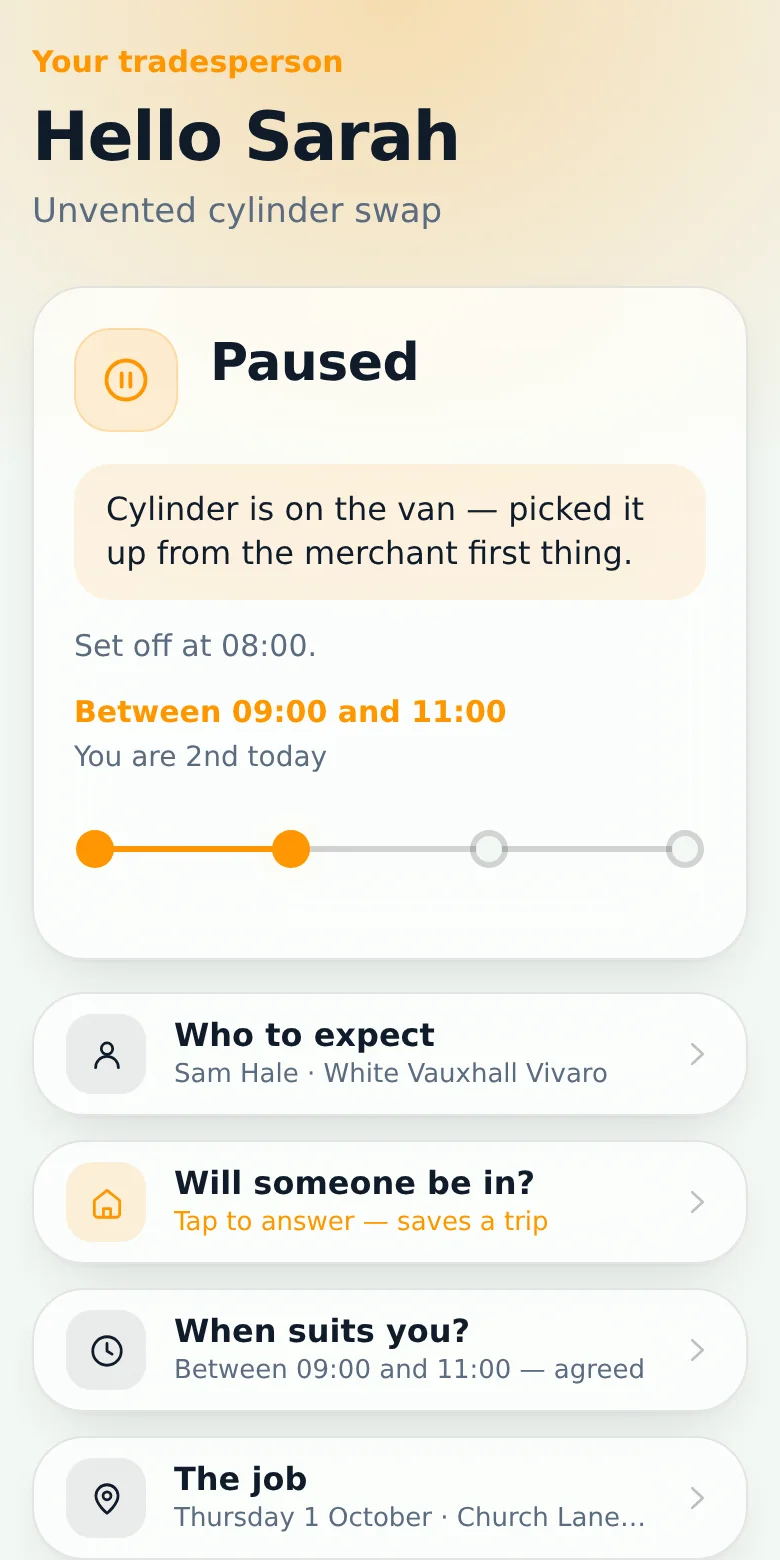
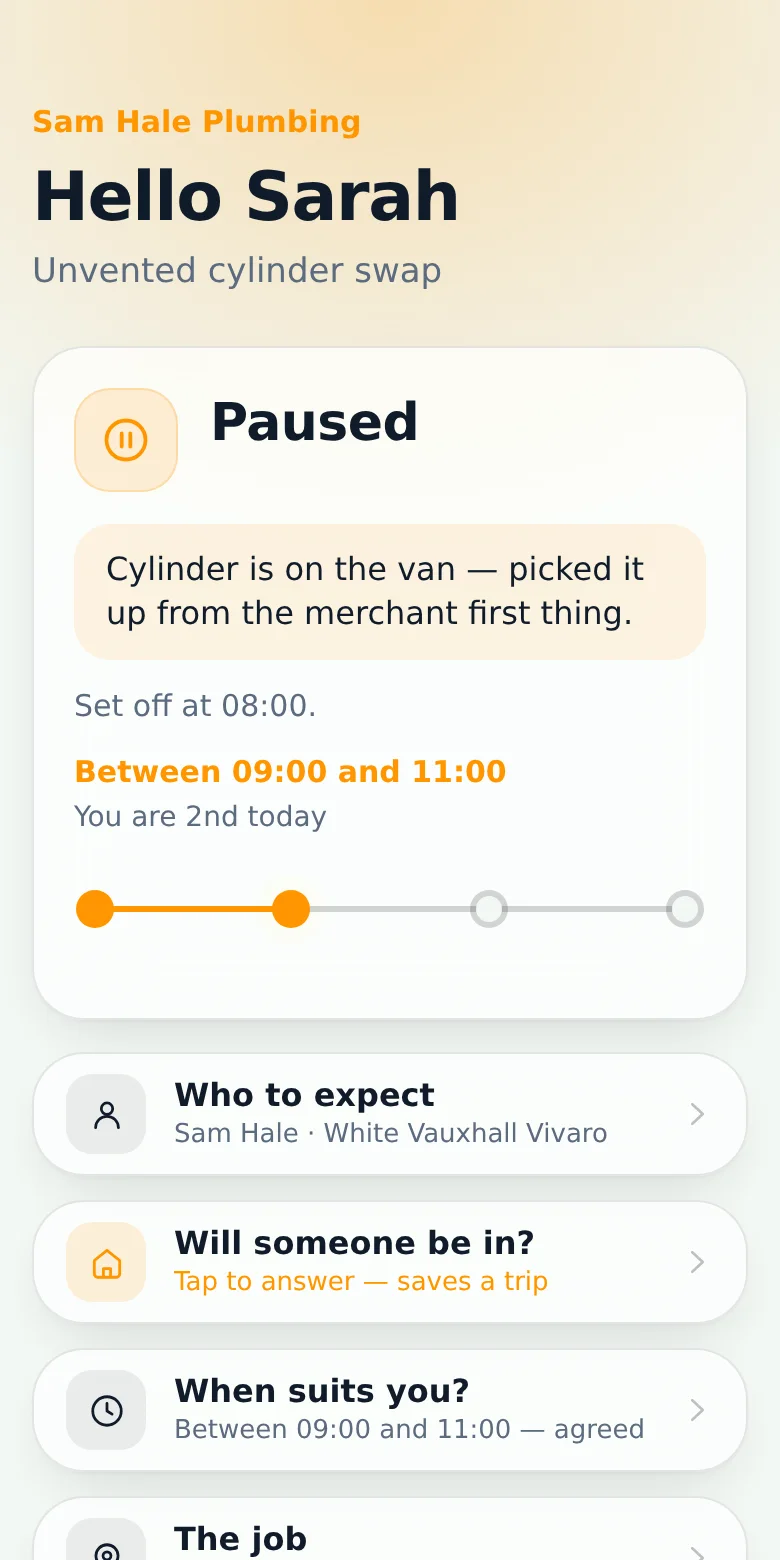
v1.13.4: the card comes out of the wallet, and the story is told like a store listing
Will: the main image was "too much a 2D image — it needs to be a three
dimensional card popping out of other cards in the Apple Wallet", and the
process images should be "the kind you would see in the App Store".

components/WalletHero.jsx is the same PassCard laid in real CSS 3D: the
stack recedes (coffee and rail cards peeking above, gym and library
below, brighter than the dashboard's so they survive a black ground), the
pass is pulled 96px towards the reader and turned in the hand, a sheet of
light across its face, a floor shadow under the stack. StackView, the flat
honest one, is untouched and the dashboard keeps it.

components/Device.jsx draws a phone properly — bezel, island, a 9:41
status bar on a frosted strip — and tilts it the way store artwork does.
lib/posters.js + /preview/posters render six 1242×2688 frames from the
real captures: sent by text, four words, will someone be in, find the
door, your five buttons, in their wallet. Captured into public/home/
store-N.webp, so they are also the artwork for any listing later.

Homepage: tilted phone and the 3D wallet under the headline; "How it
goes" is the six frames in a snap carousel. Captures now get 50px of head
room so the status bar sits on the page's own top padding; two new
captures (presence open, find-you open) — remember Next only serves what
was in public/ at build time.

Claude-Session: https://claude.ai/code/session_01KF9r2LXPvcJ1ugbhNoFDpJ

Changed region(s): [[0.0308, 0.0308, 0.9231, 1.0], [0.1231, 0.9538, 0.1538, 1.0], [0.8, 0.1846, 0.8308, 0.2154]]

diff --git a/src/app/page.js b/src/app/page.js
@@ -3,8 +3,10 @@ import Mark from '@/components/Mark'
 import Waitlist from './Waitlist'
 import { STAGE_ORDER, STAGES, stageOf } from '@/lib/trade-status'
 import { StageIcon, TickIcon, ChevronIcon } from '@/components/icons'
-import Phone from '@/components/Phone'
-import { StackView } from '@/components/PassCard'
+import Image from 'next/image'
+import Device from '@/components/Device'
+import WalletHero from '@/components/WalletHero'
+import { POSTERS } from '@/lib/posters'
 
 /**
  * The front door — the only page here a stranger is meant to find.
@@ -45,13 +47,6 @@ const DEMO = {
   jobAddress: 'Church Lane, Burbage SN8', arrivingAt: '2026-10-01T07:00:00.000Z',
 }
 
-/* The same page, four times, as the day goes. */
-const DAY = [
-  { src: '/home/customer-booked.webp',    alt: 'The customer page the night before: Booked in', caption: 'The night before' },
-  { src: '/home/customer-on-my-way.webp', alt: 'The customer page when the van sets off: On my way, set off at 08:00, between 09:00 and 11:00, you are 2nd today', caption: 'Van sets off' },
-  { src: '/home/customer-on-site.webp',   alt: 'The customer page on arrival: On site', caption: 'At the door' },
-  { src: '/home/customer-done.webp',      alt: 'The customer page at the end: Job done', caption: 'Done' },
-]
 
 export default function Home() {
   return (
@@ -98,15 +93,17 @@ export default function Home() {
             product is a page nobody finishes; the two pictures below are the
             customer's phone and the customer's wallet, and they do the rest. */}
         <section className="mt-12 grid items-start gap-8 sm:grid-cols-2">
-          <Phone src="/home/customer-on-my-way.webp" priority className="mx-auto w-[240px] sm:w-[250px]"
-                 alt="The page your customer opens from the text: Hello Sarah, On my way, set off at 08:00, between 09:00 and 11:00"
-                 caption="What they open from the text. No app, no login." />
-          <figure className="mx-auto w-full max-w-[320px]">
-            <div className="rounded-[30px] bg-black px-5 pb-6 pt-7">
-              <StackView tracker={DEMO} logo={null} tradeName="Sam Hale Plumbing" />
-            </div>
+          <figure className="mx-auto">
+            <Device screen="/home/customer-on-my-way.webp" width={250} tilt priority className="mx-auto"
+                    alt="The page your customer opens from the text: Hello Sarah, On my way, set off at 08:00, between 09:00 and 11:00" />
+            <figcaption className="mt-4 text-center text-[14px] leading-snug muted">
+              What they open from the text. No app, no login.
+            </figcaption>
+          </figure>
+          <figure className="mx-auto w-full max-w-[340px]" style={{ '--tint': '#5856d6' }}>
+            <WalletHero tracker={DEMO} tradeName="Sam Hale Plumbing" />
             <figcaption className="mt-2.5 text-center text-[14px] leading-snug muted">
-              And the same job as a card in their wallet, updating on the lock screen.
+              The same job as a card in their wallet, updating on the lock screen.
               Built; waiting on Apple&rsquo;s signing certificate.
             </figcaption>
           </figure>
@@ -151,51 +148,23 @@ export default function Home() {
           </ul>
         </section>
 
-        {/* --- how a day goes, in pictures ---------------------------------- */}
+        {/* --- how it goes, as a store listing would tell it ------------------
+            Six frames, the grammar of an App Store page: big line, quiet line,
+            the device running off the bottom. Rendered from the real screens by
+            /preview/posters and captured into public/home/store-N.webp, so they
+            are also the artwork for any listing or ad later. */}
         <section className="mt-12">
           <h2 className="text-[26px] font-bold tracking-[-0.02em]">How it goes</h2>
-
-          {/* 1. your side */}
-          <div className="glass r-outer mt-5 grid items-center gap-5 p-5 sm:grid-cols-[1fr_200px]">
-            <div>
-              <p className="text-[15px] font-bold" style={{ color: 'var(--tint)' }}>1 · Your phone</p>
-              <h3 className="mt-1 text-[20px] font-semibold leading-tight">Book the job, send the link</h3>
-              <p className="mt-2 text-[16px] leading-snug muted">
-                One tap texts them their link. Then, as the day goes, you tap the stage: five buttons,
-                one-handed, next to the van. That is all you ever do.
-              </p>
-            </div>
-            <Phone src="/home/dashboard.webp" height={1260} className="mx-auto w-[200px]"
-                   alt="Your job card: Sarah Whitfield, On my way, with the five stage buttons and Navigate" />
-          </div>
-
-          {/* 2. their side, as the day goes */}
-          <div className="glass r-outer mt-4 p-5">
-            <p className="text-[15px] font-bold" style={{ color: 'var(--tint)' }}>2 · Their phone</p>
-            <h3 className="mt-1 text-[20px] font-semibold leading-tight">The same page, changing as you tap</h3>
-            <p className="mt-2 text-[16px] leading-snug muted">
-              They open it once and leave it open. It changes on its own. Nobody rings to ask.
-            </p>
-            <div className="-mx-5 mt-5 flex snap-x gap-4 overflow-x-auto px-5 pb-2 sm:mx-0 sm:grid sm:grid-cols-4 sm:gap-3 sm:overflow-visible sm:px-0">
-              {DAY.map((d) => (
-                <Phone key={d.src} src={d.src} alt={d.alt} caption={d.caption} className="w-[180px] snap-center sm:w-auto" />
-              ))}
-            </div>
-          </div>
-
-          {/* 3. the honest one */}
-          <div className="glass r-outer mt-4 grid items-center gap-5 p-5 sm:grid-cols-[200px_1fr]">
-            <Phone src="/home/customer-paused.webp" className="mx-auto w-[200px] sm:order-none"
-                   alt="The customer page when the job is paused, with the reason shown" />
-            <div>
-              <p className="text-[15px] font-bold" style={{ color: 'var(--tint)' }}>3 · When it goes wrong</p>
-              <h3 className="mt-1 text-[20px] font-semibold leading-tight">Running late? Say so once</h3>
-              <p className="mt-2 text-[16px] leading-snug muted">
-                Pause it with a reason &mdash; &ldquo;waiting on the cylinder&rdquo; &mdash; and everyone
-                waiting on you reads it. No excuses invented on your behalf, no time it then has to walk back.
-              </p>
-            </div>
-          </div>
+          <p className="mt-2 text-[17px] muted">Swipe through. Every screen is the real thing.</p>
+          <ul className="-mx-5 mt-5 flex snap-x snap-mandatory gap-4 overflow-x-auto px-5 pb-3 [scrollbar-width:none] [&::-webkit-scrollbar]:hidden">
+            {POSTERS.map((p, i) => (
+              <li key={p.n} className="w-[256px] shrink-0 snap-center sm:w-[232px]">
+                <Image src={`/home/store-${p.n}.webp`} alt={`${p.head.replace('\n', ' ')} ${p.sub}`}
+                       width={1242} height={2688} loading={i < 3 ? 'eager' : 'lazy'} sizes="256px"
+                       className="block h-auto w-full rounded-[22px] shadow-[0_18px_40px_-18px_rgba(0,0,0,.5)]" />
+              </li>
+            ))}
+          </ul>
         </section>
 
         {/* --- the part that is a promise about what it will NOT do --------

diff --git a/src/components/WalletHero.jsx b/src/components/WalletHero.jsx
@@ -1,0 +1,70 @@
+'use client'
+import PassCard, { Sliver } from '@/components/PassCard'
+
+// Brighter neighbours than the dashboard's: on a dark hero a near-black coffee
+// card is an invisible card. Still generic, still nobody's brand.
+const HERO_CARDS = [
+  { name: 'Coffee',  sub: '12 stamps', bg: '#f3e4cf', fg: '#3b2a16' },
+  { name: 'Rail',    sub: 'Season',    bg: '#1e5c8f', fg: '#e3eef8' },
+  { name: 'Gym',     sub: 'Member',    bg: '#f2f2f4', fg: '#1d1d1f' },
+  { name: 'Library', sub: 'Card',      bg: '#2f7a46', fg: '#e7f2ea' },
+]
+
+/**
+ * The card in a wallet, with depth.
+ *
+ * StackView (PassCard.jsx) is the flat, honest version and the dashboard keeps
+ * it: it is the one you measure against. This is the one for the front page.
+ * Same card, same neighbours, but laid in real 3D — the stack recedes, the pass
+ * is lifted towards the reader and tilted the way a card is when you pull it
+ * out of a wallet, and the light catches it. CSS only, so it costs nothing and
+ * reads the live stage like everything else.
+ *
+ * Reduced motion is respected by not having any: nothing here animates.
+ */
+export default function WalletHero({ tracker, tradeName, logo = null, className = '' }) {
+  const behind = HERO_CARDS.slice(0, 2)
+  const front = HERO_CARDS.slice(2)
+  return (
+    <div className={`relative overflow-hidden rounded-[30px] bg-[#0b0c10] ${className}`}>
+      {/* a soft pool of the stage colour behind the card, so the black is not flat */}
+      <div aria-hidden="true" className="pointer-events-none absolute inset-0"
+           style={{ background: 'radial-gradient(60% 45% at 55% 42%, color-mix(in srgb, var(--tint, #5856d6) 38%, transparent), transparent 70%)' }} />
+      <div className="relative mx-auto w-[300px] translate-x-4 scale-[.92] px-2 pb-10 pt-24" style={{ perspective: '1000px' }}>
+        <div style={{ transformStyle: 'preserve-3d', transform: 'rotateX(28deg) rotateY(-16deg) rotateZ(6deg)' }}>
+          {/* the stack recedes: each card a step further back and a step higher,
+              the way a wallet fans. They stay bright — a dimmed card on a black
+              page is an invisible card, which is how the first attempt lost them. */}
+          {behind.map((n, i) => (
+            <div key={n.name} className={i ? '-mt-[30px]' : ''}
+                 style={{ transform: `translateZ(${-34 + i * 14}px) translateY(${-118 + i * 36}px) translateX(${-6 + i * 4}px)`,
+                          filter: 'drop-shadow(0 6px 10px rgba(0,0,0,.45))' }}>
+              <Sliver card={n} />
+            </div>
+          ))}
+          {/* the pass, pulled out towards you and turned a little in the hand */}
+          <div className="relative -mt-[26px]"
+               style={{ transform: 'translateZ(96px) translateY(-10px) translateX(8px) rotateX(-9deg) rotateY(7deg) rotateZ(-2deg)',
+                        filter: 'drop-shadow(0 48px 48px rgba(0,0,0,.75)) drop-shadow(0 12px 16px rgba(0,0,0,.5))' }}>
+            <div className="relative overflow-hidden rounded-[22px]">
+              <PassCard tracker={tracker} logo={logo} tradeName={tradeName} />
+              {/* a sheet of light across the face — the thing that makes a flat rectangle read as a card */}
+              <div aria-hidden="true" className="pointer-events-none absolute inset-0 rounded-[22px]"
+                   style={{ background: 'linear-gradient(118deg, rgba(255,255,255,.30) 0%, rgba(255,255,255,.08) 26%, rgba(255,255,255,0) 44%, rgba(0,0,0,.14) 100%)' }} />
+              <div aria-hidden="true" className="pointer-events-none absolute inset-0 rounded-[22px] ring-1 ring-inset ring-white/20" />
+            </div>
+          </div>
+          {front.map((n, i) => (
+            <div key={n.name} className="relative -mt-[22px]"
+                 style={{ transform: `translateZ(${-10 - i * 30}px) translateY(${8 + i * 6}px)`,
+                          filter: 'drop-shadow(0 6px 10px rgba(0,0,0,.45))' }}>
+              <Sliver card={n} />
+            </div>
+          ))}
+        </div>
+        {/* the floor, under the stack rather than under the page */}
+        <div aria-hidden="true" className="pointer-events-none absolute bottom-6 left-1/2 h-8 w-[240px] -translate-x-1/2 rounded-full bg-black/85 blur-xl" />
+      </div>
+    </div>
+  )
+}

diff --git a/src/components/Device.jsx b/src/components/Device.jsx
@@ -1,0 +1,41 @@
+import Image from 'next/image'
+
+/**
+ * A phone, drawn properly: bezel, island, screen corners, and optionally tilted
+ * in 3D the way App Store artwork tilts a device so it stops being a rectangle.
+ *
+ * `screen` is one of the real captures in public/home/ (780 wide, 2×). The
+ * frame is sized by width; the screen keeps the capture's own aspect and is
+ * clipped at the bottom so it can run off the edge of a poster.
+ */
+export default function Device({ screen, alt, width = 300, height, tilt = false, className = '', priority = false }) {
+  const h = height || Math.round(width * 2.05)
+  return (
+    <div className={`relative shrink-0 ${className}`}
+         style={{ width, height: h,
+                  transform: tilt ? 'perspective(1800px) rotateY(-11deg) rotateX(5deg) rotateZ(-1deg)' : undefined,
+                  filter: 'drop-shadow(0 34px 44px rgba(0,0,0,.45)) drop-shadow(0 8px 12px rgba(0,0,0,.25))' }}>
+      <div className="absolute inset-0 rounded-[13%/6.4%] bg-[#0c0c0e] ring-1 ring-white/10"
+           style={{ boxShadow: 'inset 0 0 0 2px #2a2a2e, inset 0 0 0 5px #0c0c0e' }} />
+      <div className="absolute inset-[2.8%] overflow-hidden rounded-[11%/5.4%] bg-[#111]">
+        <Image src={screen} alt={alt} width={780} height={1560} priority={priority}
+               sizes={`${width}px`} className="block h-auto w-full" />
+        {/* status bar on a frosted strip, the way iOS keeps it legible over
+            whatever has scrolled underneath */}
+        <div aria-hidden="true" className="absolute inset-x-0 top-0 h-[7.2%] bg-white/70 backdrop-blur-md"
+             style={{ maskImage: 'linear-gradient(#000 70%, transparent)', WebkitMaskImage: 'linear-gradient(#000 70%, transparent)' }} />
+        <div aria-hidden="true" className="absolute inset-x-0 top-0 flex items-center justify-between px-[8%] pt-[3.4%] text-[#1d1d1f]"
+             style={{ fontSize: width * 0.045, fontWeight: 600, letterSpacing: '-0.01em' }}>
+          <span>9:41</span>
+          <span className="flex items-center gap-[0.35em]">
+            <span className="flex items-end gap-[1px]">{[0.4, 0.6, 0.8, 1].map((h, i) => (
+              <span key={i} className="w-[0.22em] rounded-[1px] bg-current" style={{ height: `${h * 0.75}em` }} />))}</span>
+            <span className="inline-block h-[0.5em] w-[1.25em] rounded-[0.18em] border-[0.09em] border-current p-[0.06em]"><span className="block h-full w-[85%] rounded-[0.08em] bg-current" /></span>
+          </span>
+        </div>
+      </div>
+      {/* dynamic island */}
+      <div aria-hidden="true" className="absolute left-1/2 top-[4.2%] h-[3.2%] w-[27%] -translate-x-1/2 rounded-full bg-black" />
+    </div>
+  )
+}

diff --git a/src/app/preview/posters/Posters.jsx b/src/app/preview/posters/Posters.jsx
@@ -1,0 +1,53 @@
+'use client'
+import Device from '@/components/Device'
+import WalletHero from '@/components/WalletHero'
+import { POSTERS } from '@/lib/posters'
+
+/**
+ * App Store-style artwork, drawn from the real screens.
+ *
+ * Each poster is a 621×1344 CSS canvas captured at 2× for 1242×2688, which is
+ * the 6.5" App Store size. Big line, quiet line, then the device running off
+ * the bottom edge — the grammar every store listing uses, because it is read
+ * at thumbnail size on a phone in a queue.
+ *
+ * The screens are the captures in public/home/. Recapture; never retouch.
+ */
+
+const DEMO = {
+  stage: 'ON_MY_WAY', jobRef: '2718', customerName: 'Sarah Whitfield',
+  jobAddress: 'Church Lane, Burbage SN8', arrivingAt: '2026-10-01T07:00:00.000Z',
+}
+
+export function Poster({ p, scale = 1 }) {
+  return (
+    <div className="relative overflow-hidden text-white"
+         style={{ width: 621 * scale, height: 1344 * scale, fontSize: 16 * scale, '--tint': p.tint,
+                  background: `radial-gradient(90% 60% at 50% 100%, ${p.deep} 0%, transparent 70%), linear-gradient(170deg, ${p.tint} 0%, ${p.deep} 100%)` }}>
+      <div aria-hidden="true" className="absolute inset-0 opacity-25"
+           style={{ background: 'radial-gradient(45% 30% at 85% 10%, #fff, transparent 70%)' }} />
+      <div className="relative px-[3em] pt-[4.2em]">
+        <p className="whitespace-pre-line text-[3.1em] font-bold leading-[1.02] tracking-[-0.035em]">{p.head}</p>
+        <p className="mt-[1.1em] max-w-[16em] text-[1.25em] leading-snug text-white/80">{p.sub}</p>
+      </div>
+      <div className={`absolute inset-x-0 flex justify-center ${p.wallet ? 'inset-y-0 items-start pt-[17em]' : 'bottom-0'}`}>
+        {p.wallet ? (
+          <div className="w-[36em] scale-[1.18]"><WalletHero tracker={DEMO} tradeName="Sam Hale Plumbing" className="!rounded-[2.4em] !bg-transparent" /></div>
+        ) : (
+          <div className="translate-y-[6%]">
+            <Device screen={p.screen} alt={p.alt} width={430 * scale} tilt priority />
+          </div>
+        )}
+      </div>
+    </div>
+  )
+}
+
+export default function Posters({ n }) {
+  const list = n ? POSTERS.filter((p) => String(p.n) === String(n)) : POSTERS
+  return (
+    <div className="flex flex-wrap gap-6 bg-black p-0">
+      {list.map((p) => <Poster key={p.n} p={p} />)}
+    </div>
+  )
+}

diff --git a/src/lib/posters.js b/src/lib/posters.js
@@ -1,0 +1,27 @@
+/**
+ * The six App Store-style frames: copy and which screen each one shows.
+ *
+ * Plain data, in its own module, because the homepage (a server component)
+ * and /preview/posters (a client component) both read it, and a named export
+ * from a 'use client' file arrives on the server as a reference, not an array.
+ */
+export const POSTERS = [
+  { n: 1, tint: '#5856d6', deep: '#2b2a7a',
+    head: 'Sent by text.\nOpened in one tap.', sub: 'No app to download. Nothing to log in to. One link per job.',
+    screen: '/home/customer-on-my-way.webp', alt: 'The customer page: Hello Sarah, On my way' },
+  { n: 2, tint: '#007aff', deep: '#0a3f82',
+    head: 'Four words.\nNever a made-up time.', sub: 'Booked in · On my way · On site · Job done. “Set off at 08:00” is a record, not a promise.',
+    screen: '/home/customer-on-site.webp', alt: 'The customer page: On site' },
+  { n: 3, tint: '#34c759', deep: '#14612c',
+    head: 'They answer what\nyou’d ring about.', sub: 'Will someone be in? Two seconds for them. A wasted visit saved for you.',
+    screen: '/home/customer-presence.webp', alt: 'The customer page with “Will someone be in?” open' },
+  { n: 4, tint: '#ff9500', deep: '#8a4b00',
+    head: 'Find the door\nfirst time.', sub: 'Which door, the dog, a what3words square, a dropped pin. Kept between you.',
+    screen: '/home/customer-find-you.webp', alt: 'The customer page with “Help them find you” open' },
+  { n: 5, tint: '#1f3b57', deep: '#0c1a28',
+    head: 'Your side is\nfive buttons.', sub: 'Tap the stage as the day goes. One-handed, next to the van. That is all you ever do.',
+    screen: '/home/dashboard.webp', alt: 'The job card with its five stage buttons' },
+  { n: 6, tint: '#5856d6', deep: '#15143a',
+    head: 'In their wallet.', sub: 'The same job as a card, updating on the lock screen.',
+    wallet: true, alt: 'The job as a wallet card, lifted out of a stack of other cards' },
+]

diff --git a/src/lib/version.js b/src/lib/version.js
@@ -16,7 +16,7 @@
  *
  * Adding one is welcome. Inventing one at runtime is not.
  */
-export const VERSION = '1.13.3'
+export const VERSION = '1.13.4'
 export const BUILD_DATE = '2026-10-08'
 
 export const THEMES = [
@@ -48,6 +48,11 @@ export const theme = () => THEMES[THEME_INDEX % THEMES.length]
  * by the person who asked for it, not by a release manager.
  */
 export const CHANGELOG = [
+  { version: '1.13.4', date: '2026-10-08', notes: [
+    'The wallet card on the homepage is pulled out of a stack in real 3D \u2014 the flat version stays in the dashboard',
+    'Six App Store-style frames tell the story: sent by text, four words, will someone be in, find the door, your five buttons, in their wallet',
+    'Every frame is rendered from the real screens, in a drawn phone with a status bar, from /preview/posters',
+  ] },
   { version: '1.13.3', date: '2026-10-08', notes: [
     'The homepage finally shows the thing: the customer\u2019s page and the wallet card, before any words',
     '\u201cHow it goes\u201d is pictures now \u2014 your job card, their page changing across the day, and a paused job',

diff --git a/src/app/preview/posters/page.js b/src/app/preview/posters/page.js
@@ -1,0 +1,16 @@
+import { notFound } from 'next/navigation'
+import Posters from './Posters'
+
+/**
+ * The App Store-style posters, one per ?n=, for the capture script to
+ * photograph into public/home/store-N.webp. Gated exactly like /preview: a
+ * 404 on the live site, available under `next start` locally.
+ */
+export const dynamic = 'force-dynamic'
+export const metadata = { robots: { index: false } }
+
+export default async function PostersPage({ searchParams }) {
+  if (process.env.VERCEL_ENV === 'production') notFound()
+  const { n } = await searchParams
+  return <Posters n={n} />
+}
